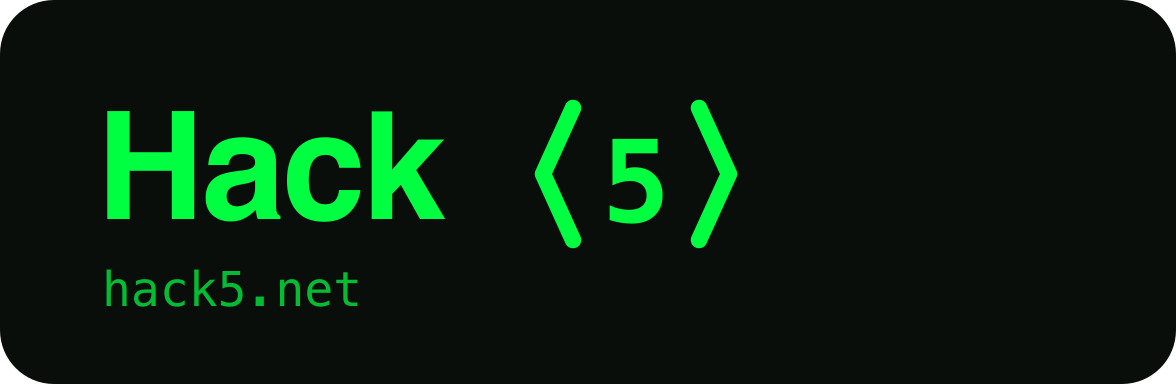
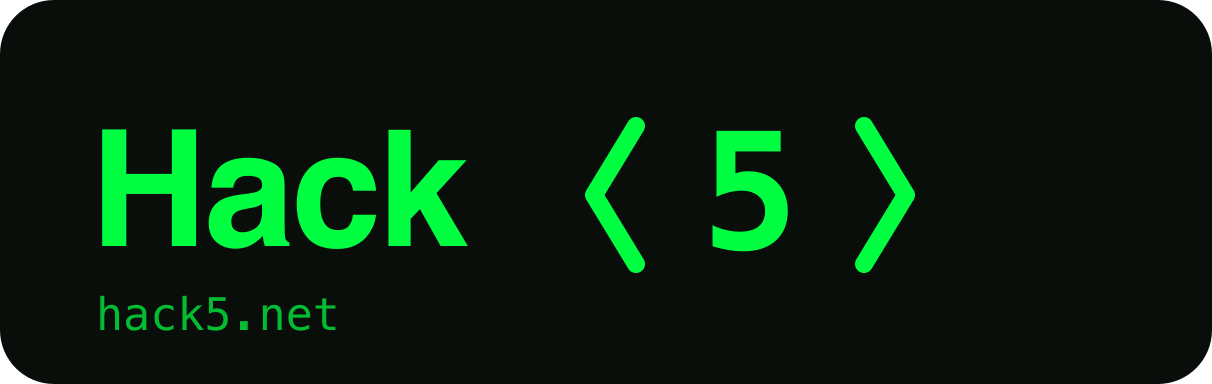
fix(brand): make ‹5› the same size as 'Hack' in the Hack‹5› lockup (#92)
* fix(brand): make the ‹5› the same size as 'Hack' in every Hack‹5› lockup

The ‹5› rendered smaller than the wordmark. Now the '5' uses the same
font-size as 'Hack' with matched chevrons, across: the 2 brand-asset
lockups (regenerated SVG+PNG), the media-kit cards (now one inline
'Hack‹5›' SVG so sizes can't drift), the poster logo, and the nav
(matched ‹5›, now theme-adaptive via currentColor).

* feat(nav): language switch → compact 3-way segmented picker (中/EN/ไทย)

Replaced the single cycling toggle with a small segmented control showing
all three languages at once: 11px font, tight padding, active one
highlighted (ink-green / matrix-green on dark). Added setLang(l) +
langPicker(); kept toggleLang for back-compat.

diff --git a/src/index.ts b/src/index.ts
@@ -4033,7 +4033,14 @@ const APP_HTML = String.raw`<!doctype html>
     header{position:sticky;top:0;z-index:5;display:flex;align-items:center;justify-content:space-between;gap:14px;padding:14px clamp(16px,4vw,48px);background:var(--header-bg);backdrop-filter:blur(12px);border-bottom:1px solid var(--line)}
     .brand{display:flex;align-items:center;gap:10px;font-weight:800;cursor:pointer}
     #brandName{color:#14532d}
+    .brandchev{color:#14532d}
     :root[data-theme="dark"] #brandName{color:#5fd39a}
+    :root[data-theme="dark"] .brandchev{color:#5fd39a}
+    .langseg{display:inline-flex;border:1px solid var(--line);border-radius:7px;overflow:hidden;vertical-align:middle}
+    .langseg button{border:0;background:transparent;color:var(--muted);font-size:11px;font-weight:600;padding:3px 7px;cursor:pointer;line-height:1.5}
+    .langseg button:hover{color:var(--ink)}
+    .langseg button.on{background:#14532d;color:#fff}
+    :root[data-theme="dark"] .langseg button.on{background:#00ff41;color:#0a0e0a}
     .mark{width:30px;height:30px;border-radius:8px;background:var(--brand);color:#fff;display:grid;place-items:center;font-size:13px}
     nav{display:flex;align-items:center;gap:8px;flex-wrap:wrap}
     nav .who{color:var(--muted);font-size:13px;margin-right:4px}
@@ -4195,10 +4202,10 @@ const APP_HTML = String.raw`<!doctype html>
 <body>
   <header>
     <div class="brand" onclick="go('/')">
-      <span id="brandName">Hack</span><svg width="27" height="27" viewBox="0 0 40 40" aria-hidden="true" style="flex:0 0 auto;margin-left:1px">
-        <path d="M12 13 6.5 20 12 27" fill="none" stroke="#14532d" stroke-width="2.6" stroke-linecap="round" stroke-linejoin="round"/>
-        <path d="M28 13 33.5 20 28 27" fill="none" stroke="#14532d" stroke-width="2.6" stroke-linecap="round" stroke-linejoin="round"/>
-        <text x="20" y="26.5" text-anchor="middle" font-family="ui-monospace,Menlo,monospace" font-size="18" font-weight="800" fill="#14532d">5</text>
+      <span id="brandName">Hack</span><svg class="brandchev" width="42" height="25" viewBox="0 0 66 40" aria-hidden="true" style="flex:0 0 auto;margin-left:2px">
+        <path d="M9 6 3 20 9 34" fill="none" stroke="currentColor" stroke-width="2.8" stroke-linecap="round" stroke-linejoin="round"/>
+        <text x="33" y="29" text-anchor="middle" font-family="ui-monospace,Menlo,monospace" font-size="30" font-weight="800" fill="currentColor">5</text>
+        <path d="M57 6 63 20 57 34" fill="none" stroke="currentColor" stroke-width="2.8" stroke-linecap="round" stroke-linejoin="round"/>
       </svg></div>
     <nav id="nav"></nav>
   </header>
@@ -4231,6 +4238,9 @@ const APP_HTML = String.raw`<!doctype html>
   const LANG_LABEL = { zh: '中文', en: 'EN', th: 'ไทย' };          // label of a given lang
   const LANG_HTMLLANG = { zh: 'zh-CN', en: 'en', th: 'th' };
   window.toggleLang = () => { LANG = LANG_NEXT[LANG] || 'zh'; lsSet('hv_lang', LANG); document.documentElement.lang = LANG_HTMLLANG[LANG] || 'zh-CN'; renderNav(); renderOrgFooter(); renderSponsorFooter(); route(); };
+  window.setLang = (l) => { if(!LANG_LABEL[l]) return; LANG = l; lsSet('hv_lang', LANG); document.documentElement.lang = LANG_HTMLLANG[LANG] || 'zh-CN'; renderNav(); renderOrgFooter(); renderSponsorFooter(); route(); };
+  // Compact 3-way language segmented control (中 / EN / ไทย) — small, low-footprint.
+  function langPicker(){ return '<span class="langseg">'+['zh','en','th'].map(function(l){ return '<button class="'+(LANG===l?'on':'')+'" onclick="setLang(\''+l+'\')">'+LANG_LABEL[l]+'</button>'; }).join('')+'</span>'; }
   // Thai dictionary, keyed by the Chinese source string (first arg of t). Covers the mini participant
   // journey (nav / register / my-hackathon / make / submit / gallery / common). Anything not here
   // falls back to English — coverage grows incrementally without breaking screens.
@@ -4549,7 +4559,7 @@ const APP_HTML = String.raw`<!doctype html>
       } else {
         hp += '<button onclick="go(\'/start\')">'+t('发起黑客松','Start a hackathon')+'</button>';
       }
-      hp += themeBtn() + '<button class="ghost" onclick="toggleLang()" title="中 / EN / ไทย">'+LANG_LABEL[LANG_NEXT[LANG]]+'</button>';
+      hp += themeBtn() + ''+langPicker()+'';
       n.innerHTML = hp; return;
     }
     // Participant-facing nav is intentionally minimal: the public gallery plus a single
@@ -4566,7 +4576,7 @@ const APP_HTML = String.raw`<!doctype html>
     } else {
       h += '<button onclick="go(\'/judge\')">'+t('评审 / 管理','Judge / Admin')+'</button>';
     }
-    h += themeBtn() + '<button class="ghost" onclick="toggleLang()" title="中 / EN / ไทย">'+LANG_LABEL[LANG_NEXT[LANG]]+'</button>';
+    h += themeBtn() + ''+langPicker()+'';
     n.innerHTML = h;
   }
 
@@ -4933,15 +4943,15 @@ const APP_HTML = String.raw`<!doctype html>
   // Reusable media kit (shown on /about and /media): two-color logo lockups + downloads (full lockup as
   // displayed + mark-only + PNG) + usage note. Marks inlined so it renders without a fetch.
   function mediaKitHtml(){
-    // Unified mark: ‹5› chevrons + "5", one color per theme. Cream lockup = black; black lockup = forest green.
-    // The ‹5› chevron mark, inline inside the "Hack‹5›" wordmark (no separate leading mark).
-    const mkMark = function(c,sz){ sz=sz||40; return '<svg xmlns="http://www.w3.org/2000/svg" viewBox="0 0 40 40" width="'+sz+'" height="'+sz+'" aria-label="5">'
-      +'<path d="M12 13 6.5 20 12 27" fill="none" stroke="'+c+'" stroke-width="2.4" stroke-linecap="round" stroke-linejoin="round"/>'
-      +'<path d="M28 13 33.5 20 28 27" fill="none" stroke="'+c+'" stroke-width="2.4" stroke-linecap="round" stroke-linejoin="round"/>'
-      +'<text x="20" y="26.5" text-anchor="middle" font-family="ui-monospace,Menlo,monospace" font-size="17" font-weight="800" fill="'+c+'">5</text></svg>'; };
+    // Full "Hack‹5›" wordmark as one inline SVG so the ‹5› is exactly the same size as "Hack".
+    const wordmark = function(hackC,markC,h){ return '<svg xmlns="http://www.w3.org/2000/svg" viewBox="0 0 286 64" height="'+(h||34)+'" role="img" aria-label="Hack5">'
+      +'<text x="0" y="51" font-family="Inter,ui-sans-serif,-apple-system,sans-serif" font-size="52" font-weight="800" fill="'+hackC+'" letter-spacing="-1">Hack</text>'
+      +'<path d="M182 24 170 43 182 62" fill="none" stroke="'+markC+'" stroke-width="5.5" stroke-linecap="round" stroke-linejoin="round"/>'
+      +'<text x="216" y="52" text-anchor="middle" font-family="ui-monospace,Menlo,monospace" font-size="52" font-weight="800" fill="'+markC+'">5</text>'
+      +'<path d="M250 24 262 43 250 62" fill="none" stroke="'+markC+'" stroke-width="5.5" stroke-linecap="round" stroke-linejoin="round"/></svg>'; };
     const card = function(bg,hackC,markC){ return '<div style="flex:1;min-width:210px;background:'+bg+';border-radius:14px;padding:22px;border:1px solid rgba(128,128,128,.14)">'
-      +'<div style="display:flex;align-items:center;gap:2px"><span style="font-size:30px;font-weight:800;color:'+hackC+';font-family:Inter,ui-sans-serif,-apple-system,sans-serif;letter-spacing:-1px;line-height:1">Hack</span><span style="line-height:0">'+mkMark(markC,42)+'</span></div>'
-      +'<div style="font-size:13px;color:'+hackC+';opacity:.65;font-family:ui-monospace,Menlo,monospace;margin-top:6px">hack5.net</div></div>'; };
+      +'<div style="line-height:0">'+wordmark(hackC,markC,34)+'</div>'
+      +'<div style="font-size:13px;color:'+hackC+';opacity:.65;font-family:ui-monospace,Menlo,monospace;margin-top:8px">hack5.net</div></div>'; };
     return '<h2 style="margin:30px 2px 12px;font-size:20px">'+t('媒体资源','Media kit')+'</h2>'
       + '<div class="panel">'
       +   '<div style="display:flex;gap:16px;flex-wrap:wrap">'
@@ -5451,7 +5461,9 @@ const APP_HTML = String.raw`<!doctype html>
           ? '<rect width="794" height="1123" fill="#080a12"/><image href="'+bg+'" x="0" y="0" width="794" height="1123" preserveAspectRatio="xMidYMid slice"/><rect width="794" height="1123" fill="url(#pscrim)"/>'
           : '<rect width="794" height="1123" fill="url(#pbg)"/><rect width="794" height="1123" fill="url(#pglow)"/><rect width="794" height="1123" fill="url(#pglow2)"/><text x="470" y="1050" font-family="ui-monospace,monospace" font-size="520" font-weight="800" fill="#ffffff" opacity="0.03">5</text>')
       + '<text x="64" y="104" font-family="Inter,ui-sans-serif,-apple-system,sans-serif" font-size="30" font-weight="800" fill="'+logoColor+'" letter-spacing="-0.5">Hack</text>'
-      + '<g transform="translate(146,78)"><path d="M8 4 2 17 8 30" fill="none" stroke="'+logoColor+'" stroke-width="3.4" stroke-linecap="round" stroke-linejoin="round"/><path d="M34 4 40 17 34 30" fill="none" stroke="'+logoColor+'" stroke-width="3.4" stroke-linecap="round" stroke-linejoin="round"/><text x="21" y="25" text-anchor="middle" font-family="ui-monospace,monospace" font-size="21" font-weight="800" fill="'+logoColor+'">5</text></g>'
+      + '<path d="M171 85 162 104 171 123" fill="none" stroke="'+logoColor+'" stroke-width="3.4" stroke-linecap="round" stroke-linejoin="round"/>'
+      + '<text x="197" y="104" text-anchor="middle" font-family="ui-monospace,monospace" font-size="30" font-weight="800" fill="'+logoColor+'">5</text>'
+      + '<path d="M223 85 232 104 223 123" fill="none" stroke="'+logoColor+'" stroke-width="3.4" stroke-linecap="round" stroke-linejoin="round"/>'
       + '<text x="730" y="105" text-anchor="end" font-family="-apple-system,sans-serif" font-size="13" fill="#8b93b5" letter-spacing="4">HACKATHON</text>';
     let y=300;
     if(eyebrow){ svg+='<text x="64" y="'+y+'" font-family="-apple-system,sans-serif" font-size="19" font-weight="600" fill="#8b7bff" letter-spacing="1.5">'+esc(eyebrow.slice(0,60))+'</text>'; y+=20; }
